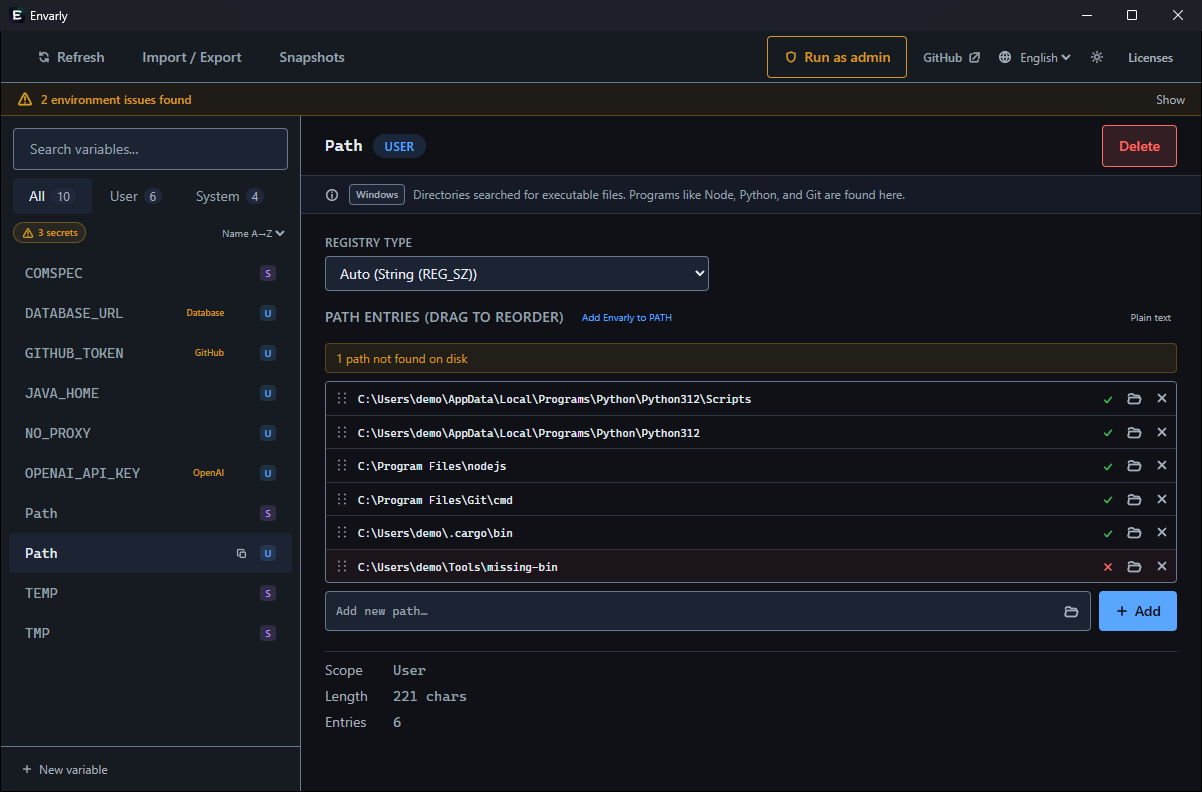
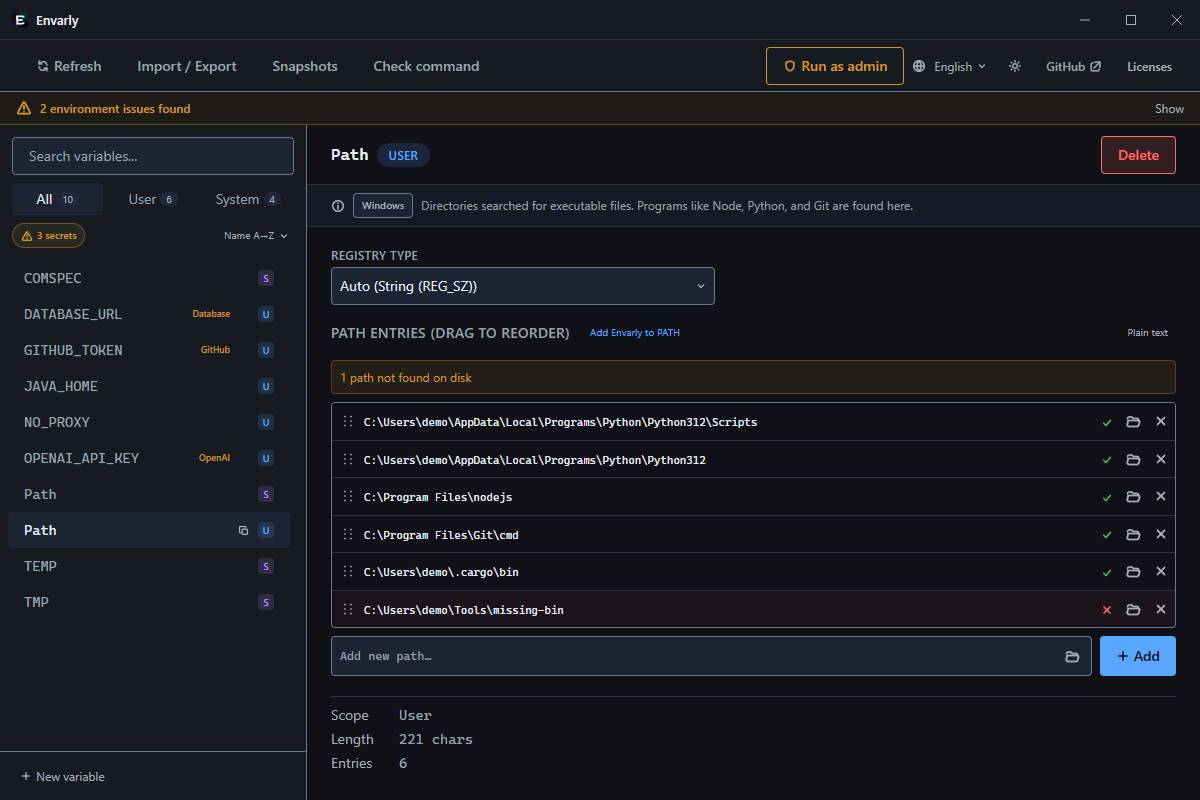
feat: automated screenshot regeneration pipeline for #70
docs/screenshot-dark.png and lp/public/screenshot-*.png were manually
captured and had drifted from the real UI (AppHeader alone changed
shape ~5 times this cycle: compact staged pill, account picker, @5xl
dropdown collapse, narrow-overflow fix). Replaces them with output
from a repeatable, code-driven pipeline instead of another one-off
manual capture.

New media/ project (isolated npm project, like lp/, so its deps don't
bloat root's npm ci in CI):
- Drives the real built app in --demo mode (src/demo/envarly-demo.json,
  fully client-side mocked, no registry writes — built for exactly
  this purpose) via Playwright connected over CDP to WebView2
  (WEBVIEW2_ADDITIONAL_BROWSER_ARGUMENTS=--remote-debugging-port).
  This is the only way to reach the real rendered UI outside
  Storybook, and was necessary here specifically because the existing
  screenshots include Windows' native titlebar, which isn't part of
  the React tree.
- Captures WebView content only (no OS window chrome — avoids the
  fragility of real OS-level window capture across DPI/theme/focus)
  and composites a static synthetic titlebar image on top instead,
  built once via build-titlebar.mjs to match src/index.css's dark
  theme colors exactly.
- Two states captured: the default dashboard (Path selected, a
  missing PATH entry flagged) and the Apply confirmation modal in
  Full diff view — matching the existing asset set, not expanding
  scope beyond it.
[…]

diff --git a/media/README.md b/media/README.md
@@ -1,0 +1,29 @@
+# envarly-media
+
+Regenerates `docs/screenshot-dark.png` and `lp/public/screenshot-*.png` from the **real, running app** instead of hand-captured screenshots — so they stay in sync as the UI changes, with no manual editing step.
+
+## How it works
+
+1. `npm run tauri build -- --debug` (from the repo root) builds `src-tauri/target/{release,debug}/envarly.exe` with the current UI baked in.
+2. `capture.mjs` launches that binary with `--demo` (a fully client-side mocked API, backed by `src/demo/envarly-demo.json` — no registry writes) and `WEBVIEW2_ADDITIONAL_BROWSER_ARGUMENTS=--remote-debugging-port=9222`, then connects Playwright to the WebView2 content over CDP (`chromium.connectOverCDP`). This drives the actual rendered app — same Playwright API used throughout the project's Storybook verification, just attached to the real window instead of a browser tab.
+3. It captures **content only** (no OS window chrome) for two states: the default dashboard (Path selected, a missing PATH entry flagged) and the Apply confirmation modal in Full diff view, into `raw/`.
+4. `compose.mjs` stacks the static `titlebar.png` (a synthetic Windows titlebar — icon, "Envarly", min/max/close — built once via `build-titlebar.mjs`, not re-captured) on top of each raw screenshot, and writes the finished PNGs directly into `docs/` and `lp/public/`.
+
+## Regenerating
+
+```sh
+# from the repo root, once (or whenever the UI changes):
+npm run tauri build -- --debug
+
+cd media
+npm install          # first time only
+npm run screenshots   # capture + compose in one step
+```
+
+Then `cd lp && npm run build` to confirm the OG-image generator (which embeds `screenshot-path-editor.png`) still succeeds, and eyeball the regenerated PNGs before committing.
+
+If `titlebar.png` ever needs to change (e.g. the app icon changes), run `npm run build:titlebar` first.
+
+## Why not Storybook
+
+The reference screenshots include Windows' native titlebar, which isn't part of the React component tree — only the real running window has it. Demo mode exists specifically to make that safe and repeatable to capture (see its doc comment in `README.md` / `src/demo/createDemoApi.ts`).
